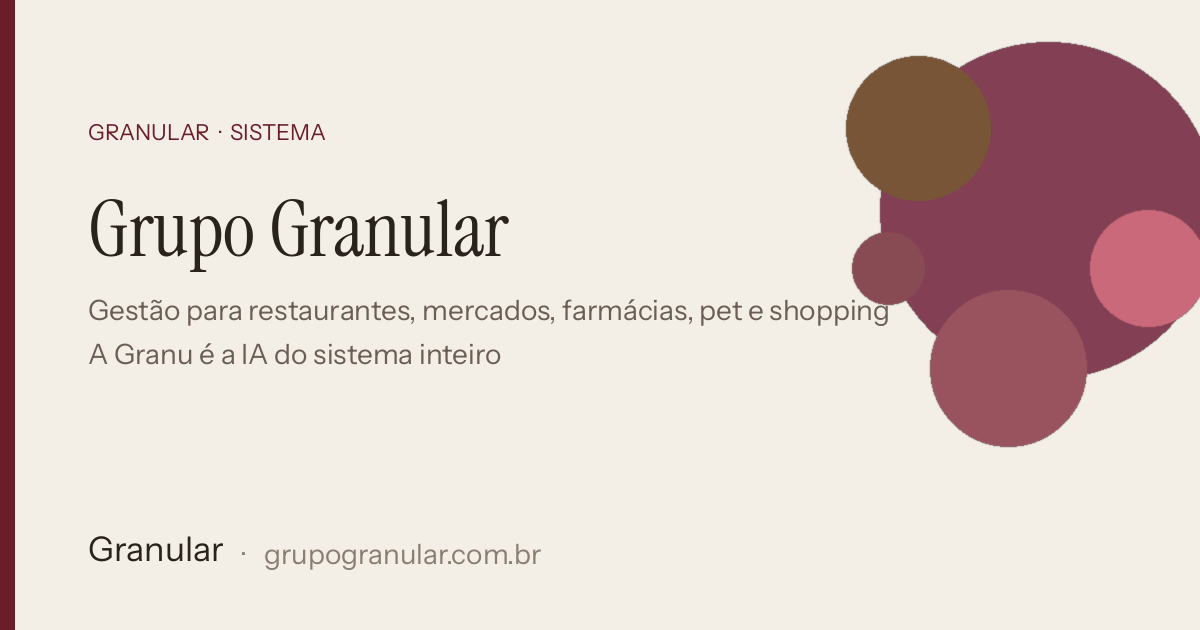
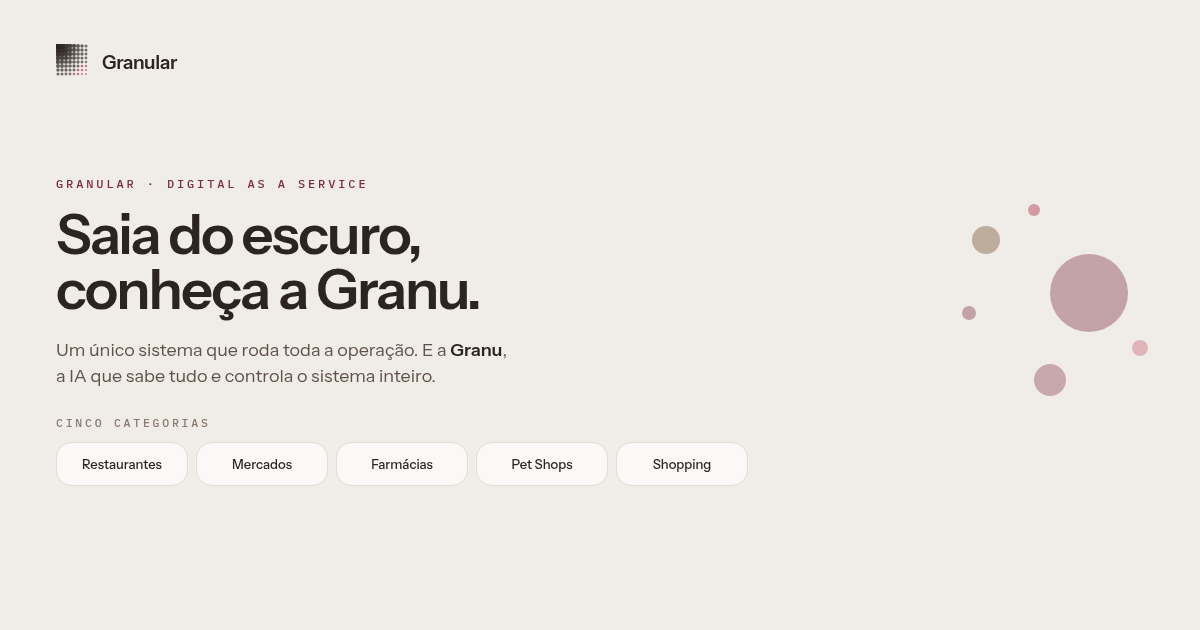
fix: preview do WhatsApp no recorte da home (#82)
Logo do site, Digital as a Service, título da Granu e os cinco blocos. Grão menor, mais aberto e com menos destaque.

diff --git a/index.html b/index.html
@@ -26,21 +26,21 @@
     <meta property="og:url" content="https://www.grupogranular.com.br/" />
     <meta property="og:title" content="Granular — Sistema de Gestão para Delivery" />
     <meta property="og:description" content="Gestão para restaurantes, mercados, farmácias, pet e shopping. A Granu é a IA do sistema inteiro: operação, estoque, financeiro e iFood." />
-    <meta property="og:image" content="https://www.grupogranular.com.br/og/og-share.jpg?v=2" />
-    <meta property="og:image:secure_url" content="https://www.grupogranular.com.br/og/og-share.jpg?v=2" />
+    <meta property="og:image" content="https://www.grupogranular.com.br/og/og-share.jpg?v=3" />
+    <meta property="og:image:secure_url" content="https://www.grupogranular.com.br/og/og-share.jpg?v=3" />
     <meta property="og:image:type" content="image/jpeg" />
     <meta property="og:image:width" content="1200" />
     <meta property="og:image:height" content="630" />
     <meta property="og:image:alt" content="Grupo Granular — sistema de gestão para delivery" />
     <meta property="og:locale" content="pt_BR" />
     <meta property="og:site_name" content="Grupo Granular" />
-    <link rel="image_src" href="https://www.grupogranular.com.br/og/og-share.jpg?v=2" />
+    <link rel="image_src" href="https://www.grupogranular.com.br/og/og-share.jpg?v=3" />
 
     <!-- Twitter/X Cards -->
     <meta name="twitter:card" content="summary_large_image" />
     <meta name="twitter:title" content="Granular — Sistema de Gestão para Delivery" />
     <meta name="twitter:description" content="Gestão para restaurantes, mercados, farmácias, pet e shopping. A Granu é a IA do sistema inteiro: operação, estoque, financeiro e iFood." />
-    <meta name="twitter:image" content="https://www.grupogranular.com.br/og/og-share.jpg?v=2" />
+    <meta name="twitter:image" content="https://www.grupogranular.com.br/og/og-share.jpg?v=3" />
     <meta name="twitter:image:alt" content="Grupo Granular — sistema de gestão para delivery" />
 
     <!-- Robots -->
